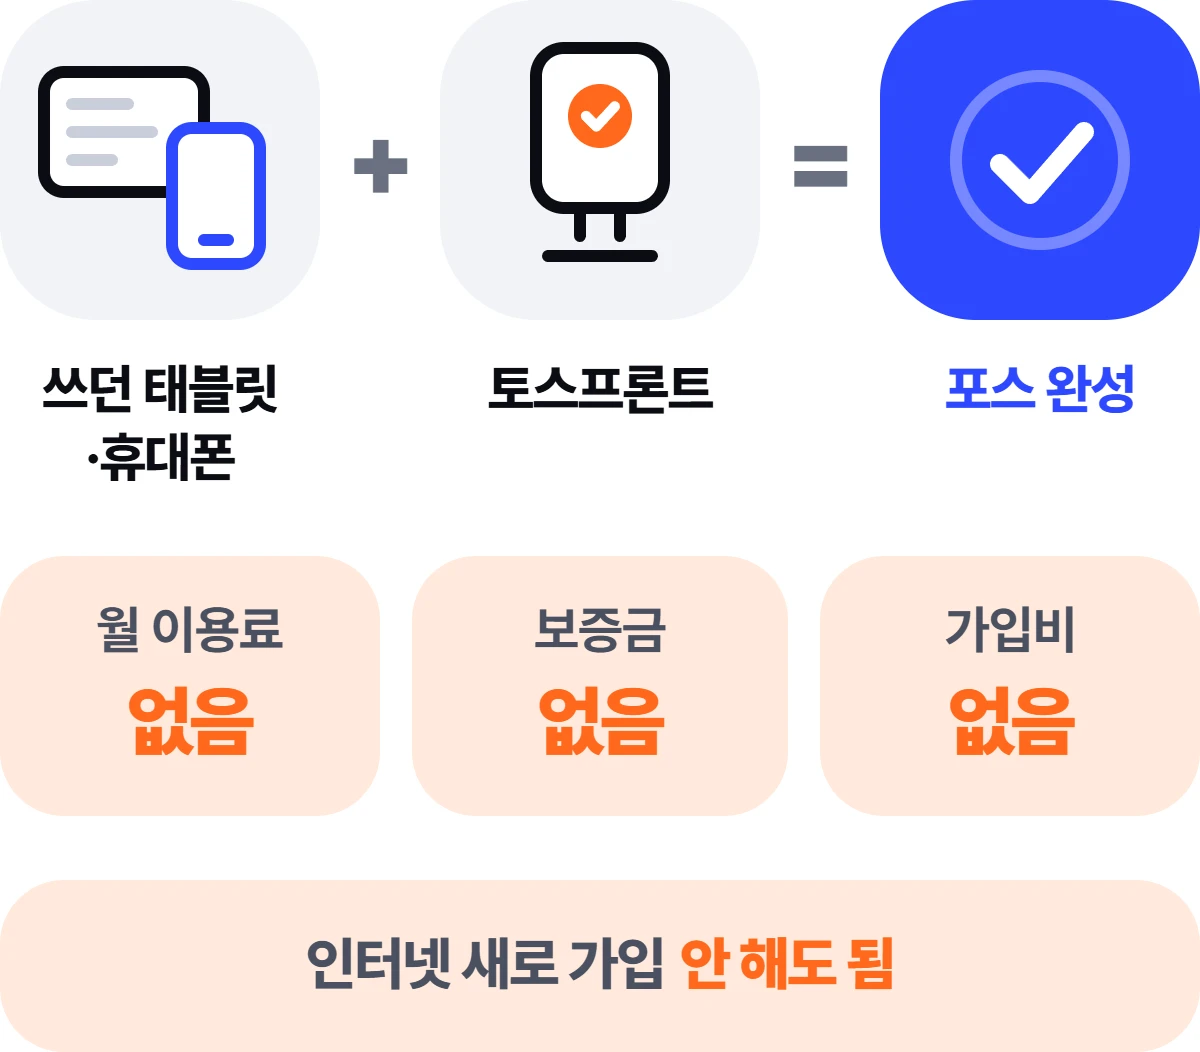
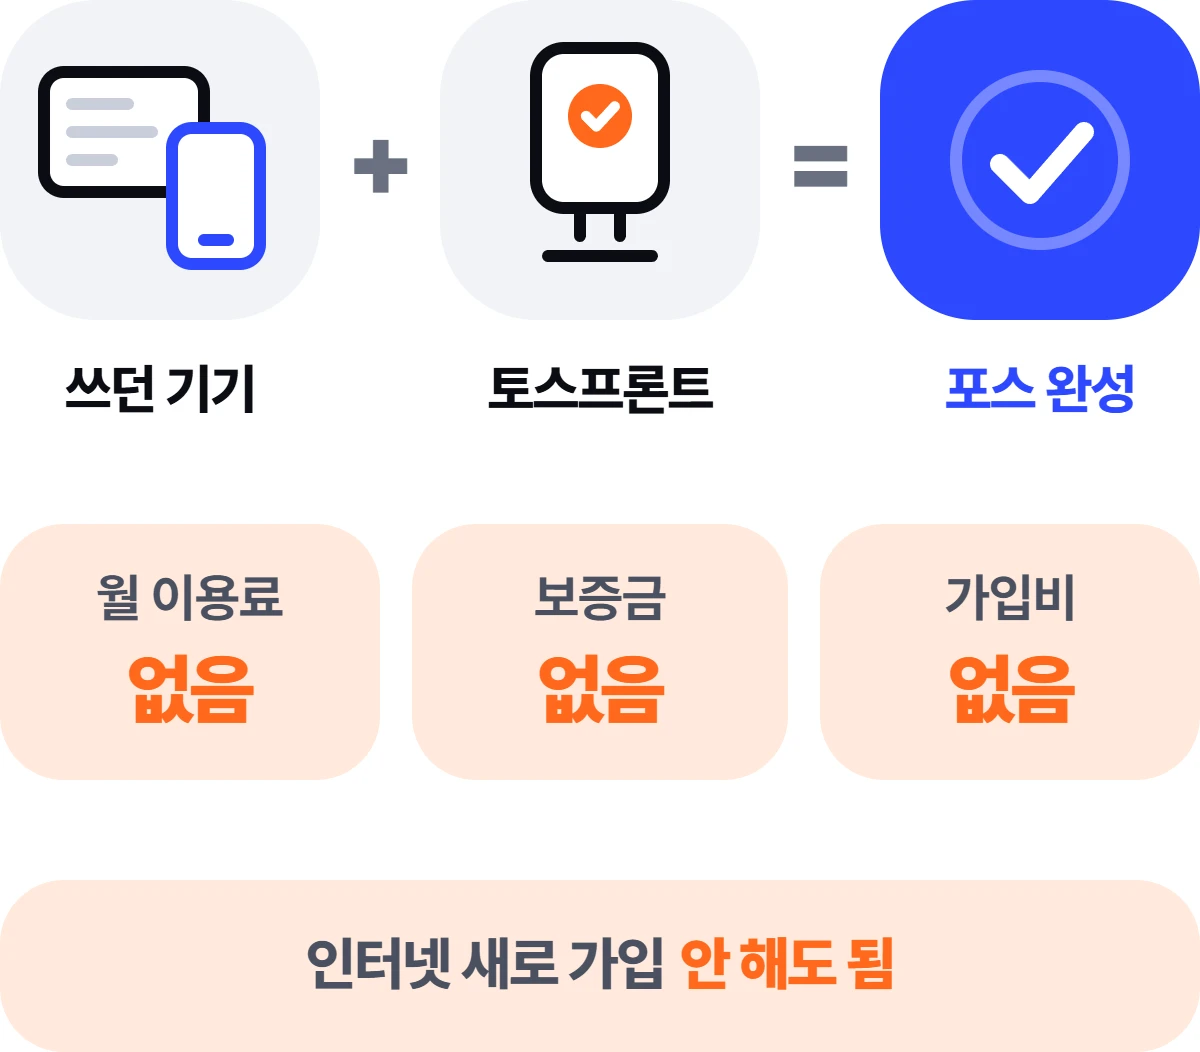
화면 검수 결과 반영: 마지막 제목 간격, 중복 회사 정보 줄 삭제, 조건 문장 줄바꿈, 도입 과정 빈칸, 이미지 크기

Changed region(s): [[0.3083, 0.4867, 1.0, 0.7909], [0.0, 0.4867, 0.3083, 0.7909], [0.0308, 0.3346, 0.2467, 0.4563]]

diff --git a/index.html b/index.html
@@ -476,6 +476,7 @@ body:has(.done) .ft{padding-bottom:56px}
 @media (max-width:899px){ .trust h3{font-size:24px} }   /* 바로 아래 구역 제목(30px)과 크기가 겹쳐 구역 시작이 흐려지지 않게 */
 /* 신뢰 목록은 이미지(graphics/trust.html) + 걸 수 있는 전화번호 글자 링크 */
 .trust .trust-img{margin-top:22px;max-width:460px}
+@media (min-width:700px) and (max-width:899px){ .trust .trust-img{max-width:560px} }
 .tel-big{display:inline-block;margin-top:14px;font-size:clamp(44px,5.2vw,64px);font-weight:900;letter-spacing:-.045em;line-height:1;color:var(--ink);white-space:nowrap}
 @media (hover:hover) and (pointer:fine){ .tel-big:hover{text-decoration:underline;text-decoration-thickness:.06em;text-underline-offset:.12em} }
 @media (min-width:900px){
@@ -505,6 +506,7 @@ body:has(.done) .ft{padding-bottom:56px}
 /* 돈 얘기는 이미지 한 장(graphics/money.html)으로 한눈에, 가격 조건은 바로 아래 글자로 남긴다 */
 .money-img{margin-top:32px;max-width:700px}
 .money-cond{margin-top:16px;max-width:34em;color:var(--ink-2)}
+@media (min-width:700px) and (max-width:999px){ .money-img{max-width:none} }
 @media (min-width:700px){ .money{padding-top:40px} }
 @media (min-width:1000px){
   .mg{display:grid;grid-template-columns:minmax(0,5fr) minmax(0,7fr);column-gap:64px;align-items:start}
@@ -526,7 +528,8 @@ body:has(.done) .ft{padding-bottom:56px}
 .feat{background:var(--blue);color:#fff;border-radius:28px;padding:28px 24px;display:flex;flex-direction:column}
 .feat :focus-visible{outline-color:#fff}
 .feat h3{font-size:clamp(24px,2.8vw,34px);font-weight:900;letter-spacing:-.035em;line-height:1.25}
-.feats-img{margin-top:22px;max-width:520px}   /* 파랑 카드와 같은 색 배경(graphics/zero-feats.html): 이음매 없이 이어진다 */
+.feats-img{margin-top:22px;max-width:520px}
+@media (min-width:700px) and (max-width:899px){ .feats-img{max-width:none} }   /* 파랑 카드와 같은 색 배경(graphics/zero-feats.html): 이음매 없이 이어진다 */
 .pline{margin-top:30px;padding-top:26px;border-top:2px solid rgba(255,255,255,.25)}
 .pline .price{margin-top:0;gap:4px 14px}
 .pline .pl-n{font-size:clamp(20px,2vw,24px);font-weight:800;color:#fff;letter-spacing:-.03em}
@@ -720,8 +723,11 @@ body:has(.done) .ft{padding-bottom:56px}
   .ps-f{border-radius:20px}
 }
 /* 두 칸은 화면 캡처가 읽을 수 있는 크기로 나올 때만 */
+@media (min-width:768px) and (max-width:1099px){ .pg{display:grid;grid-template-columns:minmax(0,1fr) 400px;column-gap:40px;align-items:start} .ps{max-width:none;margin:0} }
 @media (min-width:1100px){
   .pg{display:grid;grid-template-columns:minmax(0,1fr) minmax(0,38%);column-gap:56px;align-items:start}
+  .proc li>div{display:flex;align-items:center;justify-content:space-between;gap:24px}
+  .proc .tag{margin-top:0}
   .ps{max-width:none;margin:0;position:sticky;top:112px}
 }
 @media (min-width:1200px){ .pg{column-gap:104px;margin-top:80px} .proc{gap:48px} .ps{border-radius:44px;padding:36px 36px 26px} }
@@ -751,7 +757,7 @@ details[open]>summary .pl{transform:rotate(45deg);background:var(--orange)}
 
 /* ---------- 마지막 폼 ---------- */
 .close{padding-top:0;padding-bottom:72px}
-.end .lead{margin-bottom:36px}
+.end .h2{margin-bottom:32px}   /* 제목 바로 아래가 주황 띠(폼)다: 리드 문장이 없으므로 제목이 간격을 갖는다 */
 @media (max-width:369px){ .end .h2{font-size:28px} }   /* 360px 폰: 둘째 줄('포스모스가 확인해 드립니다.')이 한 줄에 들어간다 */
 .fs-r{margin-top:0}
 @media (max-width:899px){ .close{padding-top:40px} }
@@ -760,7 +766,7 @@ details[open]>summary .pl{transform:rotate(45deg);background:var(--orange)}
   .close{padding-bottom:120px}
   .close-grid{display:grid;grid-template-columns:minmax(0,1fr) minmax(0,50%);column-gap:48px;align-items:start}
   .end{padding:72px 36px 0 0;position:sticky;top:calc(var(--top) + 24px)}
-  .end .lead{margin-bottom:0}
+  .end .h2{margin-bottom:0}
   .fs-r{margin:0 calc(var(--g) * -1) 0 0;padding:72px var(--g) 72px 0}
   .fs-r .slab{border-radius:40px 0 0 40px}
   .fs-r .fc{margin-left:-36px}
@@ -1465,7 +1471,7 @@ if(META_PIXEL_ID){
         <source type="image/webp" media="(min-width:700px)" srcset="img/g-money-w.webp" width="700" height="480">
         <img class="gfx money-img" src="img/g-money.webp" width="335" height="722" alt="쓰던 기기와 토스프론트로 시작하면 설치비·관리비·기기값 0원이고, 월 이용료·보증금·가입비가 없으며 인터넷을 새로 가입하지 않아도 됩니다. 태블릿·휴대폰 모두 가능합니다. 포스기 세트는 월 34,000원에 인터넷·CCTV·포스기 본체가 포함됩니다." loading="lazy" decoding="async">
       </picture>
-      <p class="fine money-cond">월 34,000원은 <span class="nb">LGU+ 모바일 결합 시,</span> 정가 43,000원, <span class="nb">부가세 별도</span>입니다. 카드 결제 수수료는 포스 비용과 별도입니다.</p>
+      <p class="fine money-cond">월 34,000원은 <span class="nb">LGU+ 모바일 결합 시,</span> <span class="nb">정가 43,000원,</span> <span class="nb">부가세 별도</span>입니다.<br><span class="nb">카드 결제 수수료는 포스 비용과 별도입니다.</span></p>
       <div class="cta">
         <a class="btn xl" href="posmos-apply.html?from=v2-돈얘기" data-from="v2-돈얘기" data-offer="unknown" data-target="top">내 매장도 0원 되는지 확인하기</a>
       </div>
@@ -1519,7 +1525,7 @@ if(META_PIXEL_ID){
   <div class="wrap">
     <div class="panel" id="panel">
       <div class="pa">
-        <h2 class="h2 rv-h"><span class="ln"><span class="in">인터넷·CCTV·포스기 세트,</span></span> <span class="ln"><span class="in">월 34,000원에 한 번에.</span></span></h2>
+        <h2 class="h2 rv-h"><span class="ln"><span class="in">인터넷·CCTV·포스기를</span></span> <span class="ln"><span class="in">한 번에.</span></span></h2>
         <div class="pblock">
           <p class="price"><strong>월 34,000원</strong><s>정가 43,000원</s></p>
           <p class="fine">LGU+ 모바일 결합 시 · 부가세 별도</p>
@@ -1782,7 +1788,6 @@ if(META_PIXEL_ID){
           <a class="btn-o" href="tel:15442485" data-loc="v2-하단폼">전화 1544-2485</a>
           <a class="btn-k" href="https://pf.kakao.com/_Rxolxkb" data-loc="v2-하단폼">카카오톡 상담</a>
         </div>
-        <p class="co"><span class="nb">(주)포스모스</span><span class="sep"> · </span><span class="nb">대표 박은서</span><span class="sep s2"> · </span><span class="nb">사업자등록번호 330-86-02470</span><span class="sep s3"> · </span><span class="nb">경기도 의정부시 의정로 16, 4F~5F</span></p>
       </div>
     </div>
   </div>
@@ -2153,7 +2158,6 @@ try{
   from('.trust h3',{y:W.innerWidth<700?24:60,opacity:0,duration:.9,ease:'expo.out'},'.trust','top 84%');   /* 기다리는 동안 투명: 휴대폰에서 아래 '1만'과 겹쳐 보이지 않는다 */
   from('#fs-bottom .slab',{xPercent:102,duration:1.05,ease:'expo.out',clearProps:'transform'},'#fs-bottom','top 82%');
   from('#fc-bottom',{scale:.86,rotation:5,transformOrigin:'50% 0%',duration:1.1,delay:.12,ease:'back.out(1.5)'},'#fs-bottom','top 82%');
-  from('.end .lead',{y:40,opacity:0,duration:.9,ease:'expo.out',delay:.25},'#h2c','top 88%');
 
   /* ---- 돈 얘기: 조용하게 ---- */
   $$('.q').forEach(function(q){from(q,{y:44,opacity:0,duration:.8,ease:'expo.out'},q,'top 90%')});

diff --git a/posmos-apply.html b/posmos-apply.html
@@ -297,7 +297,7 @@ if(META_PIXEL_ID){
     <div class="ap-head">
       <p class="eyebrow">무료 상담 신청 · 토스플레이스 공식 파트너</p>
       <h1 class="h1" id="h1"><span>사장님도 <em class="z">0원</em> 되는지</span> <span>확인해 드립니다</span></h1>
-      <p class="lead">전화번호와 지역만 남겨 주세요. 담당자가 <span class="nb">영업일 9시~18시</span> 기준, 1시간 안에 직접 전화드립니다.</p>
+      <p class="lead">전화번호와 지역만 남겨 주세요.</p>
     </div>
 
     <div class="ap-g">
@@ -339,7 +339,7 @@ if(META_PIXEL_ID){
     <aside class="aside">
       <h2>포스모스에 맡기면</h2>
       <dl>
-        <div><dt>쓰던 기기로 시작하면 0원</dt><dd><span class="nb">설치비·관리비·기기값</span> 0원, 매달 내는 돈도 없습니다.</dd></div>
+        <div><dt>쓰던 기기로 시작하면 0원</dt><dd>매달 내는 돈도 없습니다.</dd></div>
         <div><dt>포스기 세트는 월 34,000원</dt><dd>인터넷·CCTV·포스기 본체 포함. <span class="nb">LGU+ 모바일 결합 시,</span> <span class="nb">부가세 별도.</span></dd></div>
       </dl>
       <ul class="nums">

diff --git a/graphics/card-a.html b/graphics/card-a.html
@@ -33,7 +33,7 @@
           <path d="M42 48h6" stroke="#2E48FF" stroke-width="3"/>
         </svg>
       </div>
-      <div class="lb">쓰던 태블릿<br>·휴대폰</div>
+      <div class="lb">쓰던 기기</div>
     </div>
     <div class="op">+</div>
     <div class="it">
